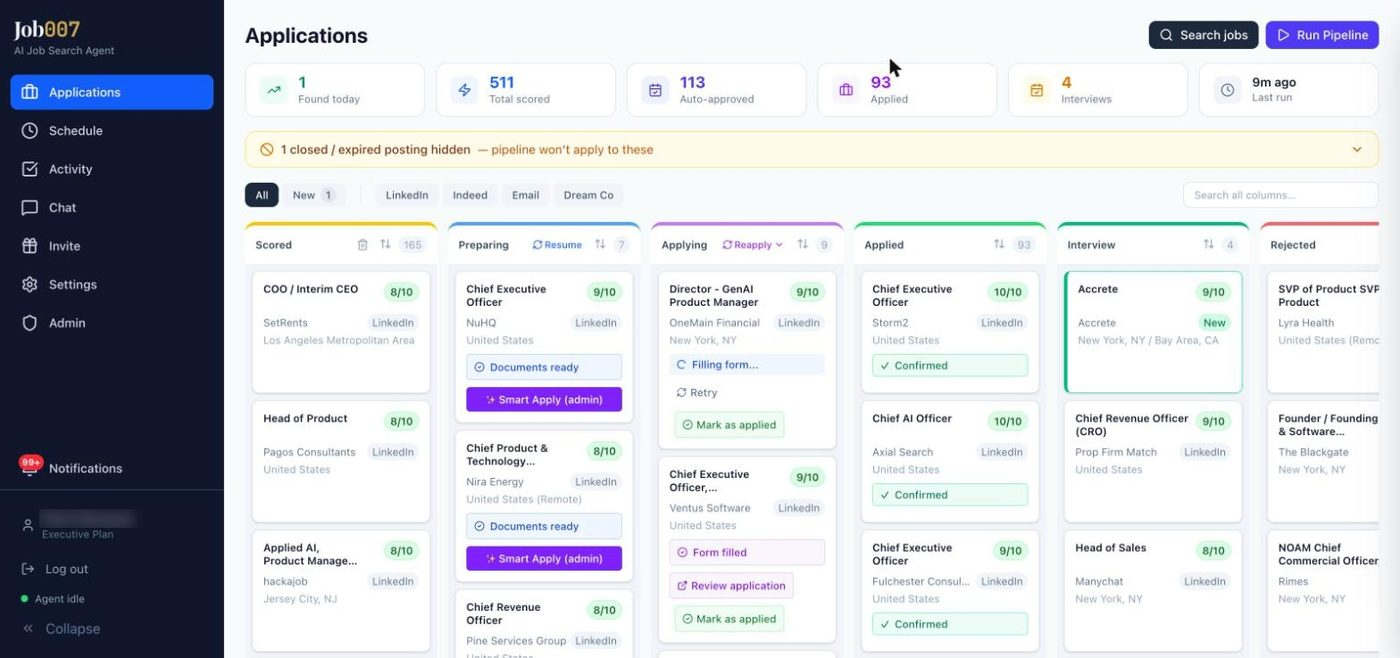
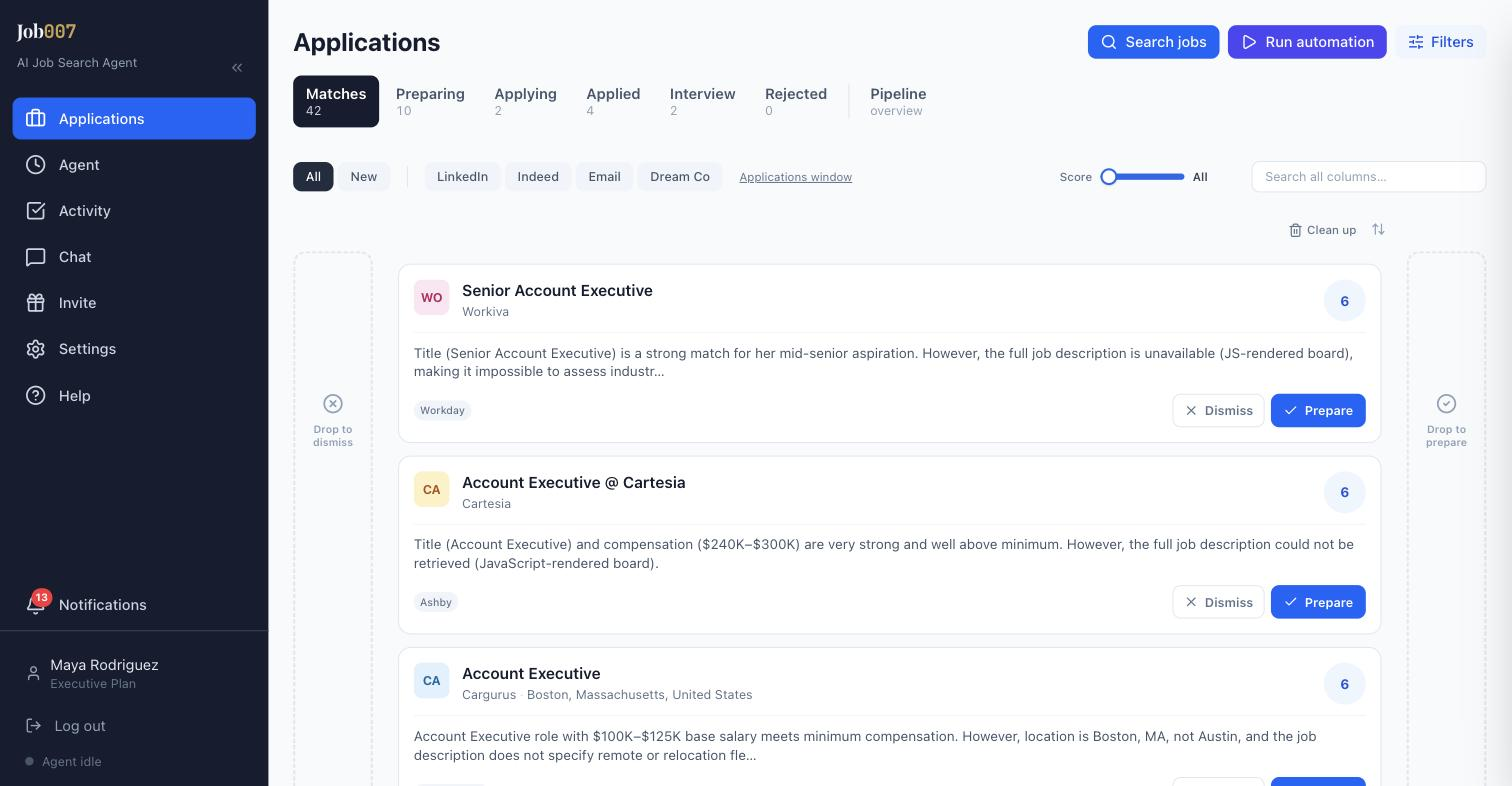
Website: screenshots now show the app as it is today
Every screen shot in early August predates the stage strip, the triage rails,
the Edit with AI boxes and the new pipeline overview — the site was selling a
product that no longer looked like that. All six are retaken from the demo
account:

- hero: the board with its funnel — scored, auto-approved, applied, at
  interview — and all five stages side by side
- pipeline: a scored match with the reasoning behind it, dismiss or prepare,
  and the drop zones either side
- scoring: a 9/10 fit analysis with its strengths and gaps
- documents / cover letter: both with the Edit with AI box and its suggestions
- chat: the assistant ranking the best matches
- schedule: three agents, their sources and their level of autonomy

Alt text and captions now describe what each image actually shows, and the
hero's width/height match the new file.

diff --git a/index.html b/index.html
@@ -3,8 +3,8 @@
 <head>
   <meta charset="UTF-8">
   <meta name="viewport" content="width=device-width, initial-scale=1.0">
-  <title>Job007 — AI Job Search Agent That Finds, Scores &amp; Applies for You</title>
-  <meta name="description" content="An AI job search agent that finds roles across LinkedIn, Indeed and thousands of company hiring boards, scores each against your resume, and applies for you.">
+  <title>Job007 — AI Job Search Agent: Find Jobs Early, Apply First</title>
+  <meta name="description" content="Job007 is an AI job search agent. It watches company career sites daily, scores each role against your resume and prepares tailored applications you approve.">
   <link rel="canonical" href="https://job007.ai/">
   <meta name="robots" content="index, follow, max-image-preview:large, max-snippet:-1, max-video-preview:-1">
   <meta name="theme-color" content="#0f172a">
@@ -22,8 +22,8 @@
   <meta property="og:site_name" content="Job007">
   <meta property="og:locale" content="en_US">
   <meta property="og:url" content="https://job007.ai/">
-  <meta property="og:title" content="Job007 — AI Job Search Agent That Finds, Scores &amp; Applies for You">
-  <meta property="og:description" content="An AI job search agent that finds roles across LinkedIn, Indeed and thousands of company hiring boards, scores each against your resume, and applies for you.">
+  <meta property="og:title" content="Job007 — AI Job Search Agent: Find Jobs Early, Apply First">
+  <meta property="og:description" content="Job007 is an AI job search agent. It watches company career sites daily, scores each role against your resume and prepares tailored applications you approve.">
   <meta property="og:image" content="https://job007.ai/assets/og-image.jpg">
   <meta property="og:image:width" content="1200">
   <meta property="og:image:height" content="630">
@@ -31,8 +31,8 @@
 
   <!-- Twitter / X card -->
   <meta name="twitter:card" content="summary_large_image">
-  <meta name="twitter:title" content="Job007 — AI Job Search Agent That Finds, Scores &amp; Applies for You">
-  <meta name="twitter:description" content="An AI job search agent that finds roles across LinkedIn, Indeed and thousands of company hiring boards, scores each against your resume, and applies for you.">
+  <meta name="twitter:title" content="Job007 — AI Job Search Agent: Find Jobs Early, Apply First">
+  <meta name="twitter:description" content="Job007 is an AI job search agent. It watches company career sites daily, scores each role against your resume and prepares tailored applications you approve.">
   <meta name="twitter:image" content="https://job007.ai/assets/og-image.jpg">
   <meta name="twitter:image:alt" content="Job007 — your AI agent for landing your next job">
 
@@ -45,6 +45,9 @@
   "url": "https://job007.ai/",
   "logo": "https://job007.ai/assets/icon-512.png",
   "email": "contact@job007.ai",
+  "sameAs": [
+    "https://www.linkedin.com/company/job007/"
+  ],
   "description": "Job007 builds an AI agent that runs your job search end to end — finding, scoring, writing, applying and tracking.",
   "contactPoint": [
     {
@@ -475,7 +478,7 @@
       <!-- Hero screenshot: the Applications dashboard mid-search -->
 <div class="reveal reveal-delay-4 relative max-w-4xl mx-auto min-w-0">
         <figure class="mockup-glow rounded-2xl overflow-hidden border border-white/10 shadow-2xl shadow-black/50">
-          <img src="/assets/screens/dashboard.jpg" width="1792" height="1054" fetchpriority="high" decoding="async" alt="The Job007 dashboard: 61 jobs scored, 19 auto-approved, 12 applications sent and 4 interviews, with the agent opening an application and filling in the form" class="w-full block">
+          <img src="/assets/screens/dashboard.jpg" width="1512" height="786" fetchpriority="high" decoding="async" alt="The Job007 board: 61 jobs scored, 19 auto-approved, applications moving through preparing, applying and applied, and two at interview" class="w-full block">
         </figure>
       </div>
     </div>
@@ -681,7 +684,7 @@
           <!-- Mockup: Score cards -->
           <div class="reveal reveal-delay-2">
             <figure class="rounded-2xl overflow-hidden bg-navy-900/80 border border-white/10 mockup-glow">
-              <img src="/assets/screens/scoring.jpg" alt="Job007 fit analysis giving a job 9 out of 10, with strengths and gaps listed" loading="lazy" decoding="async" class="w-full block">
+              <img src="/assets/screens/scoring.jpg" alt="Job007 fit analysis scoring a Senior Account Executive role 9 out of 10, recommending apply, with the strengths and gaps it found listed underneath" loading="lazy" decoding="async" class="w-full block">
             </figure>
             <figcaption class="mt-3 text-center text-xs text-slate-500">A real fit analysis — the score, the reasoning, the gaps it found.</figcaption>
           </div>
@@ -699,7 +702,7 @@
           <!-- Mockup: Document preview -->
           <div class="reveal reveal-delay-1 order-2 lg:order-1">
             <figure class="rounded-2xl overflow-hidden bg-navy-900/80 border border-white/10 mockup-glow">
-              <img src="/assets/screens/documents.jpg" alt="A tailored resume generated by Job007 with an Edit with AI chat box beneath it" loading="lazy" decoding="async" class="w-full block">
+              <img src="/assets/screens/documents.jpg" alt="A resume rewritten by Job007 for one specific role, with an Edit with AI box beneath it suggesting changes like emphasising a skill or adjusting the tone" loading="lazy" decoding="async" class="w-full block">
             </figure>
             <figcaption class="mt-3 text-center text-xs text-slate-500">A resume tailored to one job — and the chat box you refine it in.</figcaption>
           </div>
@@ -759,7 +762,7 @@
           <!-- Screenshot: refining a cover letter by chat -->
 <div class="reveal reveal-delay-2">
             <figure class="rounded-2xl overflow-hidden bg-navy-900/80 border border-white/10 mockup-glow">
-              <img src="/assets/screens/cover-edit.jpg" alt="A cover letter in Job007 being revised through the Edit with AI chat box, which confirms it added a mention of using AI tools for lead generation" loading="lazy" decoding="async" class="w-full block">
+              <img src="/assets/screens/cover-edit.jpg" alt="A cover letter written by Job007 for a Senior SDR role, with an Edit with AI box offering to make it shorter, sound more enthusiastic or change the opening paragraph" loading="lazy" decoding="async" class="w-full block">
             </figure>
             <figcaption class="mt-3 text-center text-xs text-slate-500">One instruction in the chat box &mdash; the line it added is already in paragraph&nbsp;two.</figcaption>
           </div>
@@ -870,9 +873,9 @@
                 <span class="w-2.5 h-2.5 rounded-full bg-agent-green/60"></span>
                 <span class="ml-3 font-mono text-[10px] text-slate-500 tracking-wide">app.job007.ai</span>
               </div>
-              <img src="/assets/screens/pipeline.jpg" alt="The Job007 pipeline board with jobs scored, preparing, applying, applied and at interview" loading="lazy" decoding="async" class="w-full block">
+              <img src="/assets/screens/pipeline.jpg" alt="A scored match in Job007 with the reasoning underneath it, one button to dismiss it and one to send it to prepare, and drop zones on either side" loading="lazy" decoding="async" class="w-full block">
             </figure>
-            <figcaption class="mt-3 text-center text-xs text-slate-500">A live board: scored, preparing, applying, applied, interviewing.</figcaption>
+            <figcaption class="mt-3 text-center text-xs text-slate-500">Every match with the reasoning behind its score &mdash; dismiss it, or send it to prepare.</figcaption>
           </div>
       </div>
     </div>
@@ -908,7 +911,7 @@
           <!-- Mockup: Chat interface -->
 <div class="reveal reveal-delay-2">
             <figure class="rounded-2xl overflow-hidden bg-navy-900/80 border border-white/10 mockup-glow">
-              <img src="/assets/screens/chat.jpg" alt="The Job007 chat assistant answering &quot;What are my best job matches right now?&quot; with clickable job cards scored 9 out of 10 and 8 out of 10" loading="lazy" decoding="async" class="w-full block">
+              <img src="/assets/screens/chat.jpg" alt="The Job007 assistant answering &quot;What are my best job matches right now?&quot; by ranking the top pick at 9 out of 10, the strong contenders at 8, and saying which three to prioritise" loading="lazy" decoding="async" class="w-full block">
             </figure>
             <figcaption class="mt-3 text-center text-xs text-slate-500">Ask a question, get real job cards back &mdash; scored, explained, clickable.</figcaption>
           </div>
@@ -926,9 +929,9 @@
           <!-- Mockup: Schedule -->
           <div class="reveal reveal-delay-1">
             <figure class="rounded-2xl overflow-hidden bg-navy-900/80 border border-white/10 mockup-glow">
-              <img src="/assets/screens/schedule.jpg" alt="Job007 search agents scheduled to run daily at 4am, 5am, 6am and 7am" loading="lazy" decoding="async" class="w-full block">
+              <img src="/assets/screens/schedule.jpg" alt="Three Job007 search agents: LinkedIn every day at 07:00 and Indeed at 08:30, both auto-approving anything scoring 8 or higher, plus a dream-companies sweep every Monday" loading="lazy" decoding="async" class="w-full block">
             </figure>
-            <figcaption class="mt-3 text-center text-xs text-slate-500">Four agents, four sources, four different levels of autonomy.</figcaption>
+            <figcaption class="mt-3 text-center text-xs text-slate-500">Agents on your schedule, each with its own sources and its own level of autonomy.</figcaption>
           </div>
           <div>
             <span class="reveal section-label">Autonomous Agent</span>
@@ -1327,6 +1330,7 @@
             <li><a href="#pricing" class="text-sm text-slate-500 hover:text-white transition-colors">Pricing</a></li>
             <li><a href="#download" class="text-sm text-slate-500 hover:text-white transition-colors">Get Started</a></li>
             <li><a href="#how-it-works" class="text-sm text-slate-500 hover:text-white transition-colors">How It Works</a></li>
+            <li><a href="/guides/hidden-job-market.html" class="text-sm text-slate-500 hover:text-white transition-colors">Guide: the hidden job market</a></li>
             <li><a href="#faq" class="text-sm text-slate-500 hover:text-white transition-colors">FAQ</a></li>
           </ul>
         </div>
